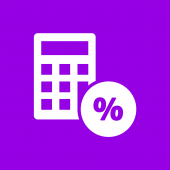
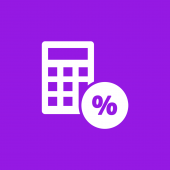
Nuove icone, splash screen, tolta trasparenza alla statusbar

diff --git a/VAT Discount Calculator/Pages/Home.xaml.cs b/VAT Discount Calculator/Pages/Home.xaml.cs
@@ -34,7 +34,6 @@ namespace VAT_Discount_Calculator.Pages
             this.InitializeComponent();
             this.NavigationCacheMode = NavigationCacheMode.Required;
             Utility.SetMargin(TITLE, Utility.MarginEdge.Top, StatusBar.GetForCurrentView().OccludedRect.Height);
-            StatusBar.GetForCurrentView().BackgroundOpacity = 0.2;
             
             flip.SelectionChanged += Flip_SelectionChanged;
             tab_vat.Tapped += (s, e) => { flip.SetValue(FlipView.SelectedIndexProperty, 0); };
